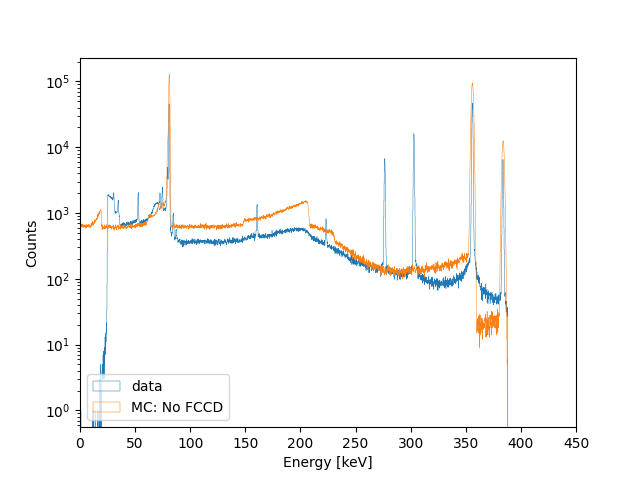
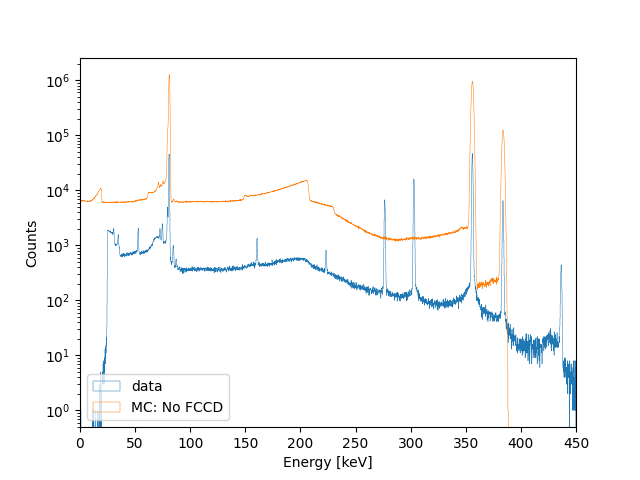
all sims with same number of events/same beamon number

diff --git a/Ba133_analysis/simulations/IC-legend/macro/ba_top/PostProc/drawPostProcessed_FCCD.py b/Ba133_analysis/simulations/IC-legend/macro/ba_top/PostProc/drawPostProcessed_FCCD.py
@@ -12,6 +12,7 @@ import sys
 sys.path.append('/lfs/l1/legend/users/aalexander/HADES_detchar/Ba133_analysis/data/')
 from Ba133_dlt_analysis import * 
 
+#CURRENT CODE - plot spectra, fit, compare with data and deadlayer post processing (currently testing)
 
 def main(): 
 
@@ -65,7 +66,7 @@ def main():
     print("")
     print("Fitting peaks of interest...")
 
-    xmin_356, xmax_356 = 350, 362 #362 #360.5 for gammas #2 #360 #kev 
+    xmin_356, xmax_356 = 350, 360.5 #362 #360.5 for gammas #2 #360 #kev 
     plt.figure()
     counts, bins, bars = plt.hist(energies, bins = bins, histtype = 'step') #, linewidth = '0.35')
     popt, pcov, xfit = fit_peak_356_2("Energy (keV)", bins, counts, xmin_356, xmax_356)
@@ -89,6 +90,7 @@ def main():
     a,b,c,d,e,f,g,h = popt[0],popt[1],popt[2],popt[3],popt[4],popt[5],popt[6],popt[7] 
     plt.xlim(xmin_81, xmax_81) 
     plt.ylim(5*10**2, 5*10**6)
+    #plt.ylim(10**3, 10**7) #gammas_81mmNEW
     plt.yscale("log")
     plt.xlabel("Energy [keV]")
     plt.ylabel("Counts")
@@ -147,8 +149,9 @@ def main():
     calibrated_energy_data = (key_data-c)/m
 
     #plot absolutes
+    bins_data = bins = np.arange(0, 450, binwidth)
     fig, ax = plt.subplots()
-    counts_data, bins_cal_data, bars_data = plt.hist(calibrated_energy_data, bins=bins, label = "data", histtype = 'step', linewidth = '0.35')
+    counts_data, bins_cal_data, bars_data = plt.hist(calibrated_energy_data, bins=bins_data, label = "data", histtype = 'step', linewidth = '0.35')
     counts, bins, bars = plt.hist(energies, bins = bins, label = "MC: No FCCD", histtype = 'step', linewidth = '0.35')
     plt.xlabel("Energy [keV]")
     plt.ylabel("Counts")
@@ -167,7 +170,7 @@ def main():
     R_simdata_356 = amplitude356_sim/amplitude356_data #ratio of sim to data for 356 peak
 
     fig, ax = plt.subplots()
-    counts_data, bins_cal_data, bars_data = plt.hist(calibrated_energy_data, bins=bins, weights=R_simdata_356*np.ones_like(calibrated_energy_data),  label = "data (scaled)", histtype = 'step', linewidth = '0.35')
+    counts_data, bins_cal_data, bars_data = plt.hist(calibrated_energy_data, bins=bins_data, weights=R_simdata_356*np.ones_like(calibrated_energy_data),  label = "data (scaled)", histtype = 'step', linewidth = '0.35')
     counts, bins, bars = plt.hist(energies, bins = bins, label = "MC: No FCCD", histtype = 'step', linewidth = '0.35')
     plt.xlabel("Energy [keV]")
     plt.ylabel("Counts")
@@ -181,7 +184,7 @@ def main():
 
 
 
-    # #_____________PROCESS AND PLOT FCCDS_____________
+    # #_____________PROCESS AND PLOT FCCDS_____________ #in development/testing
 
     # # #graph of all FCCDs
     # # FCCD_list = ['none', 0.25, 0.5, 0.75, 1.0, 1.25, 1.5] #mm

diff --git a/Ba133_analysis/simulations/IC-legend/macro/ba_top/PostProc/postprochdf5.py b/Ba133_analysis/simulations/IC-legend/macro/ba_top/PostProc/postprochdf5.py
@@ -3,6 +3,8 @@ import pandas as pd
 import numpy as np
 from datetime import datetime
 
+#This code generates a "processed_mcid.gdf5" for 1 input hdf5 MC file. No deadlayer post processing done.
+
 def main():
 
     #print date and time for log:

diff --git a/Ba133_analysis/simulations/IC-legend/macro/ba_top/PostProc/drawPostProcessedHdf5.py b/Ba133_analysis/simulations/IC-legend/macro/ba_top/PostProc/drawPostProcessedHdf5.py
@@ -6,6 +6,7 @@ import numpy as np
 import matplotlib.pyplot as plt
 #plt.style.use("mplstyle.txt")
 
+#OLD CODE - plot whole spectrum for a processed...hdf5 file, no deadlayer pos processing
 
 def main(): 
 
